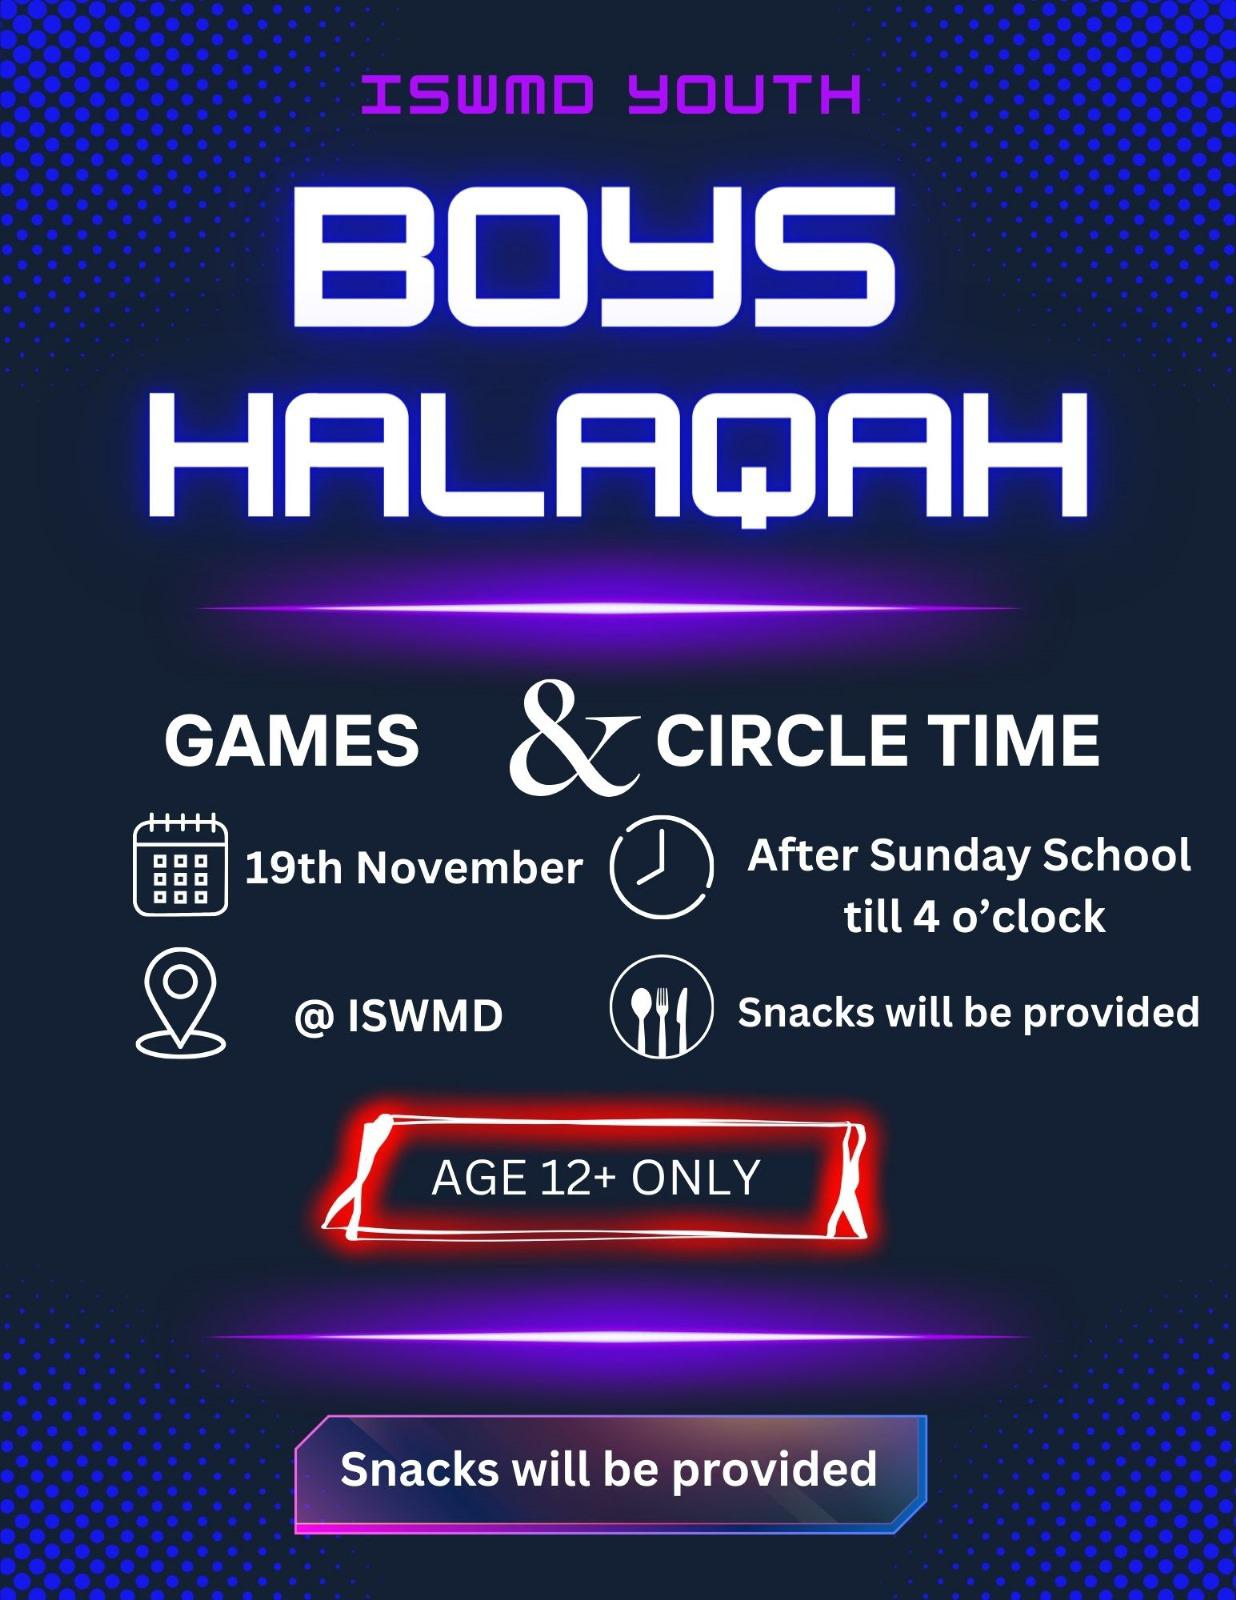
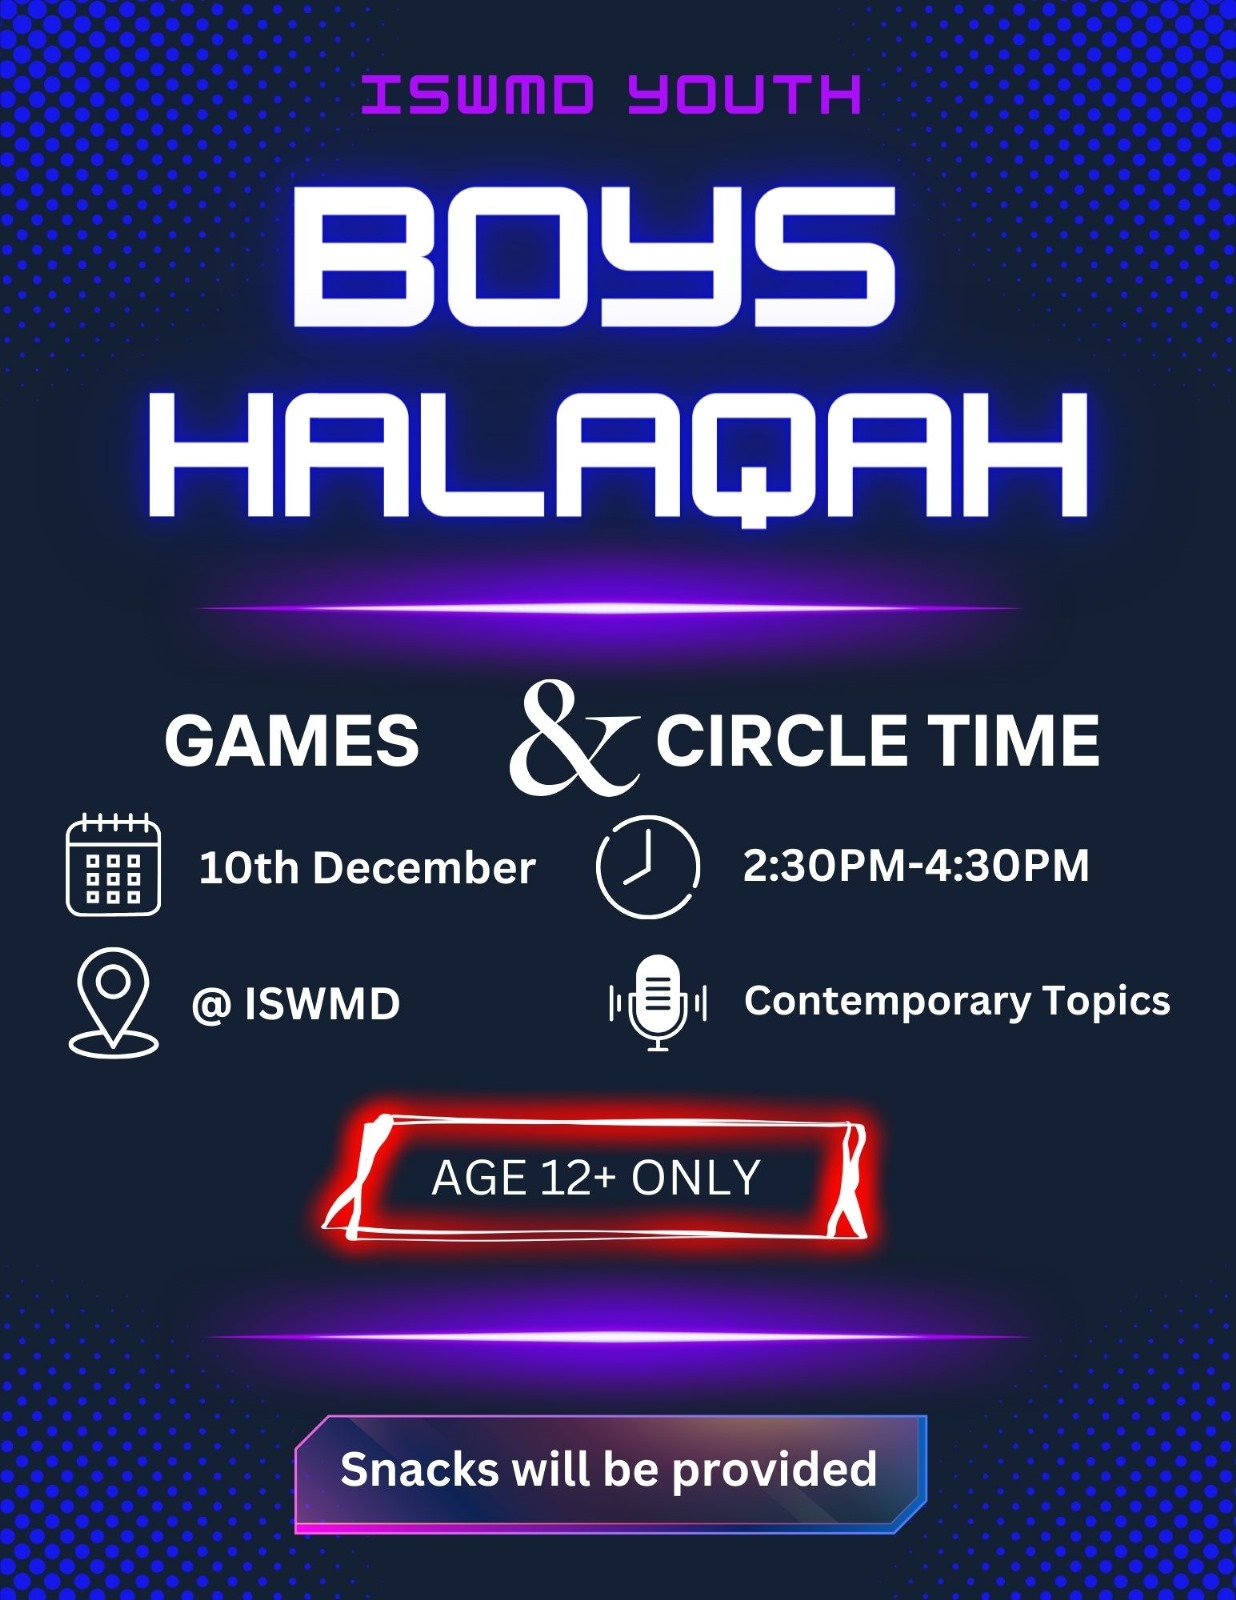
Updated posters

Changed region(s): [[0.0307, 0.5, 0.9838, 0.6875]]

diff --git a/index.html b/index.html
@@ -180,7 +180,7 @@
                         <img class="card-img-top" src="assets/boys-halaqah.jpg" alt="Card image cap" height="675" width="300" style="float: left; padding: 3px 3px 10px 3px">
 
                         <h5 class="card-title">Youth Boy's Halaqah</h5>
-                        <p class="card-text"> Every Sunday after Zuhur until 4 pm. Age 12+ only.</p>
+                        <p class="card-text"> Every Sunday 2:30-4:30. Age 12+ only.</p>
                          <hr>
                     </div>
                 </div>
@@ -194,7 +194,7 @@
                         <img class="card-img-top" src="assets/girls-halaqah.jpg" alt="Card image cap" height="675" width="300" style="float: left; padding: 3px 3px 10px 3px">
 
                         <h5 class="card-title">Youth Girl's Halaqah</h5>
-                        <p class="card-text"> Every Sunday after Zuhur until 4 pm. Age 12+ only.</p>
+                        <p class="card-text"> Every Sunday 2:30-4:30. Age 12+ only.</p>
                          <hr>
                     </div>
                 </div>
